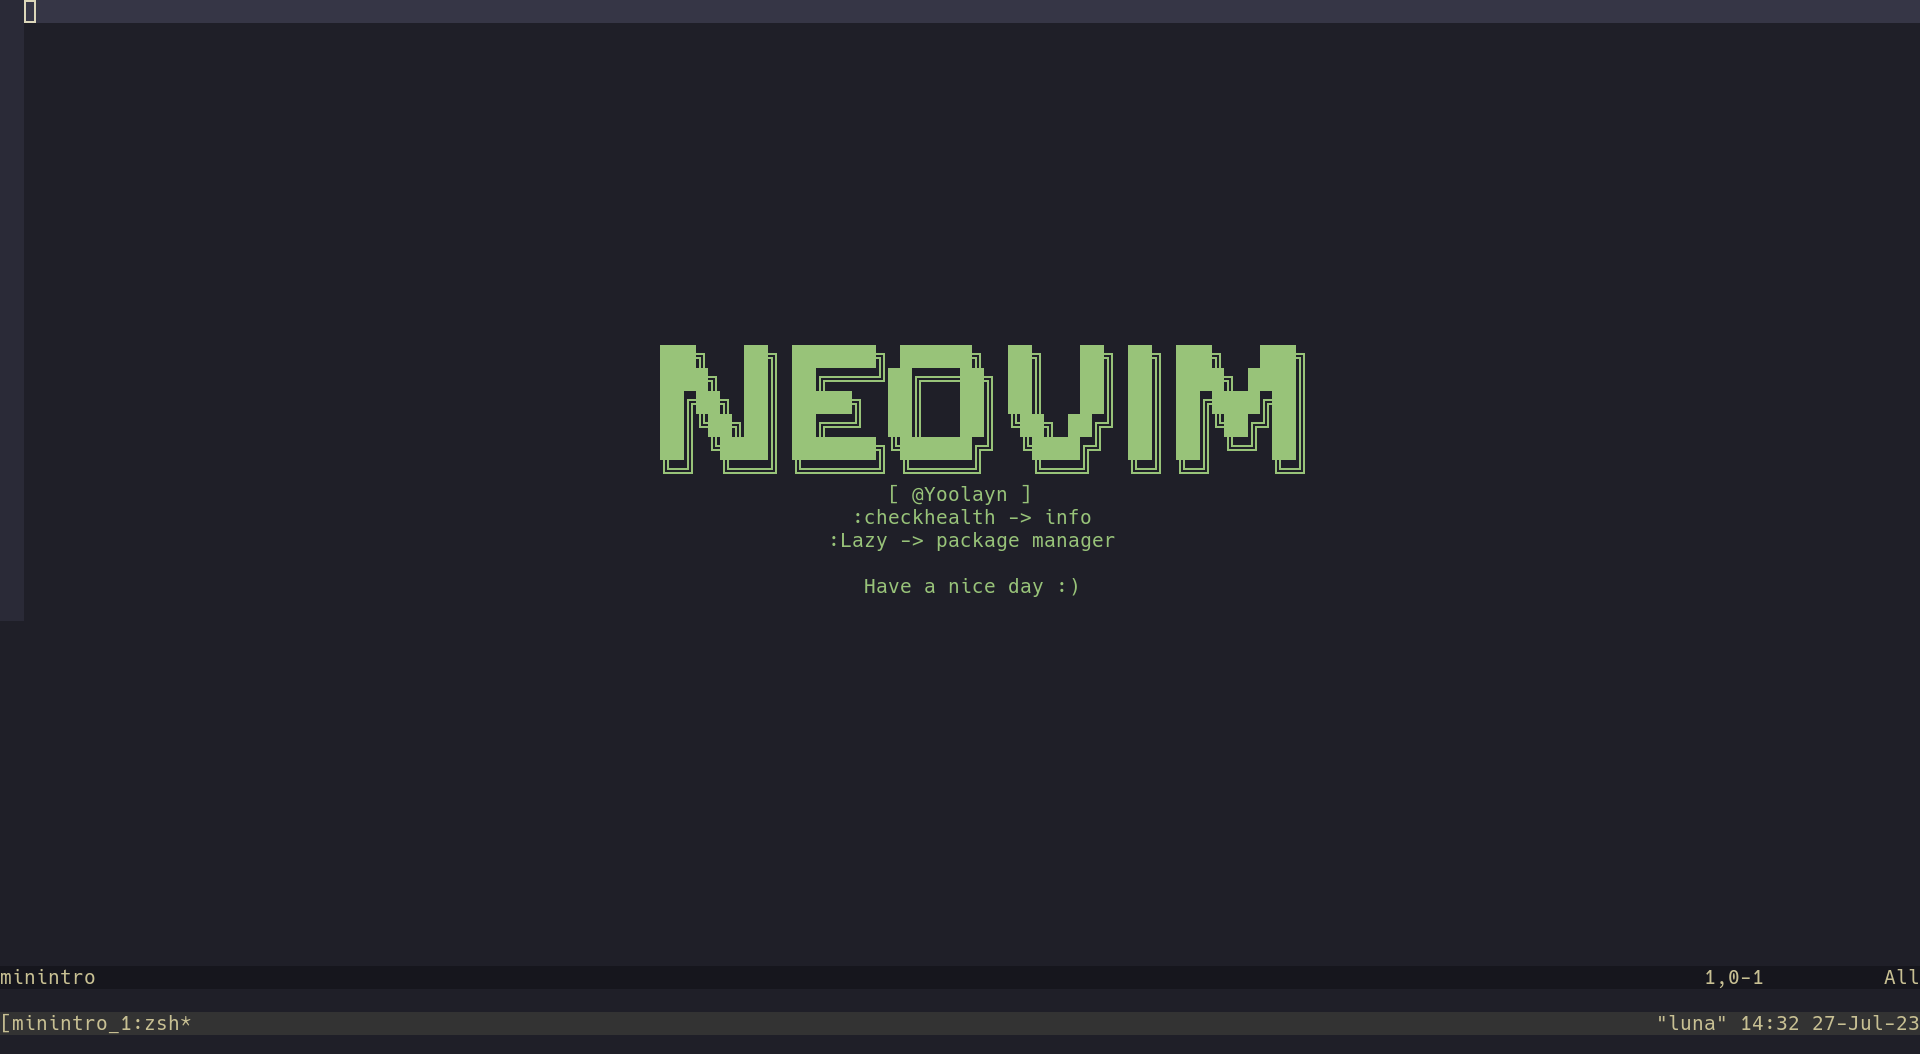
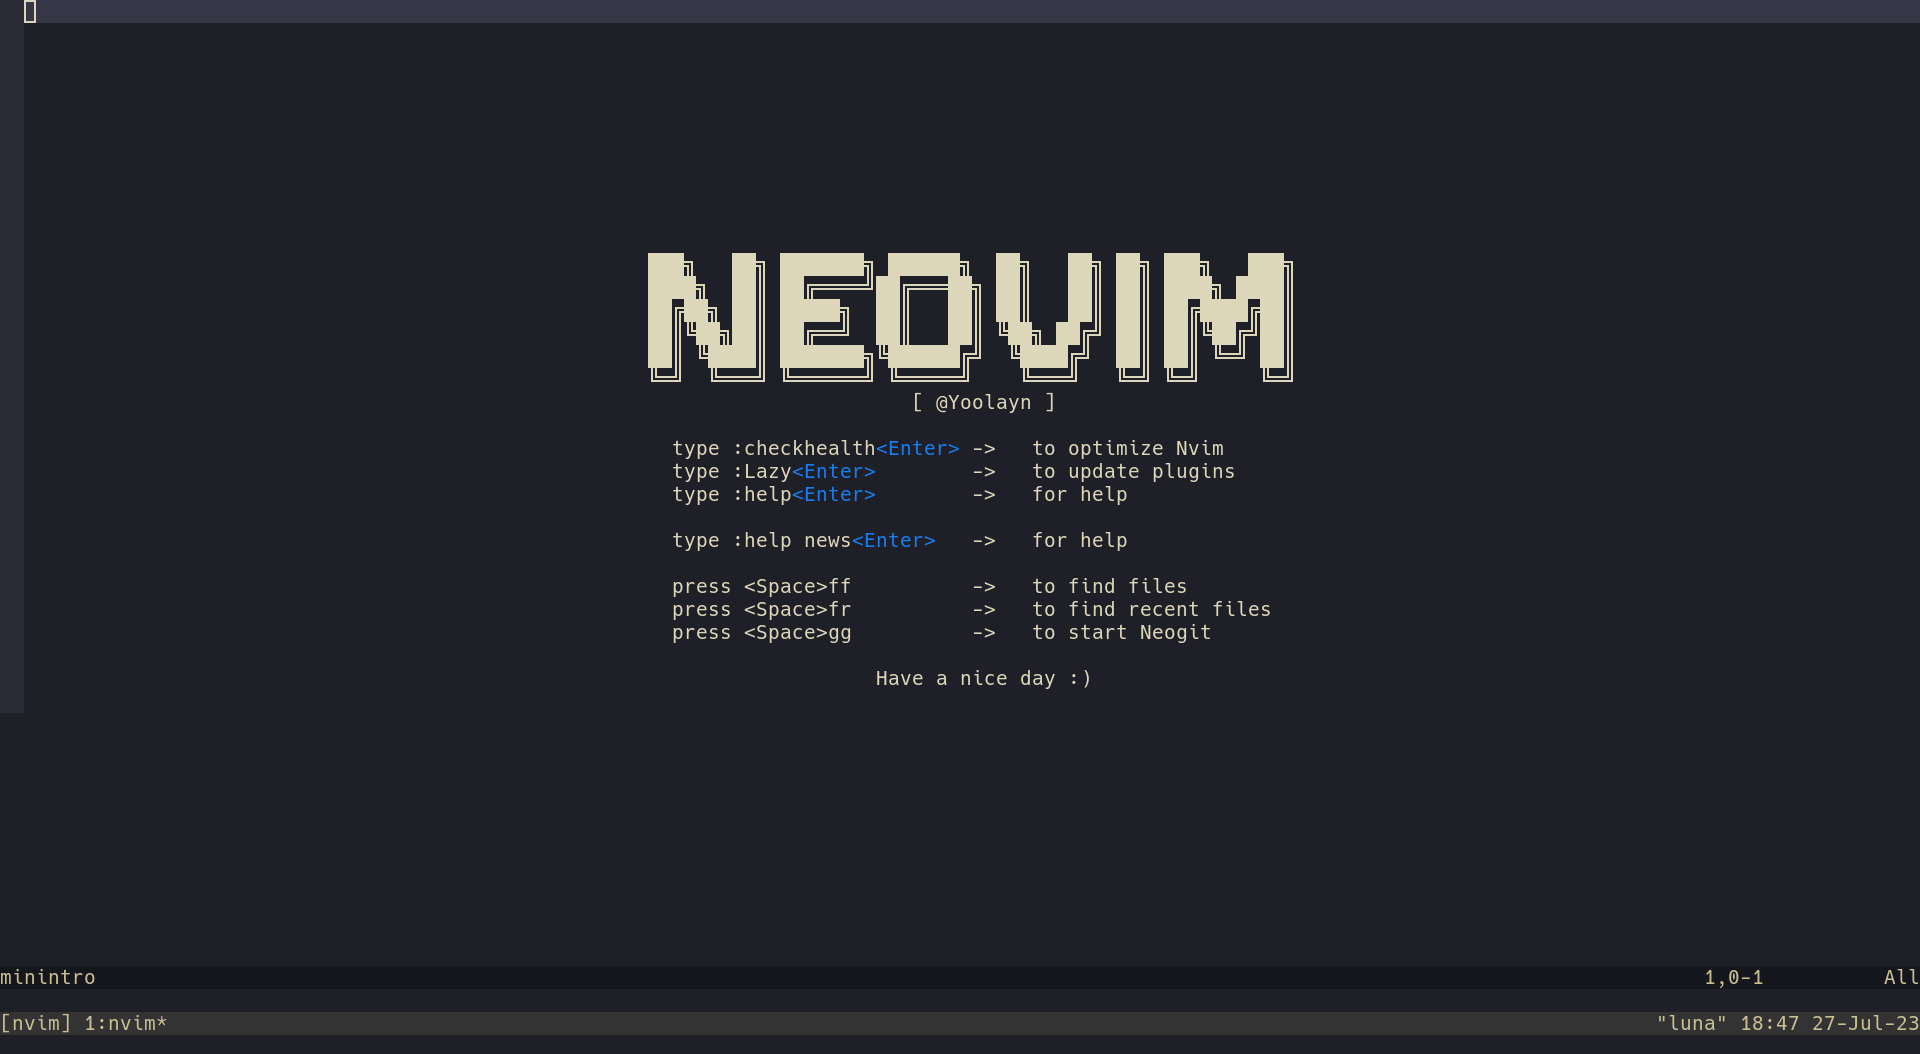
Update README.md
Update README.md

Changed region(s): [[0.3125, 0.2429, 0.6875, 0.5161], [0.3438, 0.5465, 0.625, 0.6072], [0.4688, 0.6376, 0.5625, 0.6679]]

diff --git a/README.md b/README.md
@@ -9,7 +9,7 @@ Neovim intro screen can be extremely buggy and forced to close automatically by 
 `minintro.nvim` hijects `no-name` and `directory` buffer and draws a simple intro logo.
 I tried to emulate the function of the original Intro as much as I could. If
 you have any improvements feel free to make a pull request.
-also thanks to the [original author](https://github.com/eoh-bse/minintro.nvim)
+Thanks to the [original author](https://github.com/eoh-bse/minintro.nvim)
 for making most of the plugin.
 
 ## Screenshot
@@ -34,8 +34,10 @@ use {
 ```
 
 ## Configuration
-You can customize the intro logo(adding your own will overwrite the default one)
-along with the ability to set the color and starting a scratch buffer instead.
+You can customize the intro logo(adding your own will overwrite the default one).
+It is possible to change it's color, make a scratch buffer appear at the start
+instead of a regular one and you can set custom highlights using matched to
+highlight parts of the logo.
 Please keep all the lines in the intro option the same length, as it may cause unexpected results.
 
 minintro comes with these defaults:
@@ -54,6 +56,9 @@ minintro comes with these defaults:
         },
         color = "#98c379",
         scratch = false,
+        highlights = function()
+            return false
+        end,
     }
     lazy = false
 }
@@ -74,6 +79,9 @@ use {
         },
         color = "#98c379",
         scratch = false,
+        highlights = function()
+            return false
+        end,
     }) end
 }
 ```
@@ -85,19 +93,34 @@ this is my configuration from the screenshot, using lazy.nvim
         "Yoolayn/minintro.nvim",
         config = {
             intro = {
-                " ███╗   ██╗ ███████╗ ██████╗  ██╗   ██╗ ██╗ ███╗   ███╗",
-                " ████╗  ██║ ██╔════╝██╔═══██╗ ██║   ██║ ██║ ████╗ ████║",
-                " ██╔██╗ ██║ █████╗  ██║   ██║ ██║   ██║ ██║ ██╔████╔██║",
-                " ██║╚██╗██║ ██╔══╝  ██║   ██║ ╚██╗ ██╔╝ ██║ ██║╚██╔╝██║",
-                " ██║ ╚████║ ███████╗╚██████╔╝  ╚████╔╝  ██║ ██║ ╚═╝ ██║",
-                " ╚═╝  ╚═══╝ ╚══════╝ ╚═════╝    ╚═══╝   ╚═╝ ╚═╝     ╚═╝",
-                "                    [ @Yoolayn ]                       ",
-                "                 :checkhealth -> info                  ",
-                "               :Lazy -> package manager                ",
-                "                                                       ",
-                "                  Have a nice day :)                   ",
+                "███╗   ██╗ ███████╗ ██████╗  ██╗   ██╗ ██╗ ███╗   ███╗",
+                "████╗  ██║ ██╔════╝██╔═══██╗ ██║   ██║ ██║ ████╗ ████║",
+                "██╔██╗ ██║ █████╗  ██║   ██║ ██║   ██║ ██║ ██╔████╔██║",
+                "██║╚██╗██║ ██╔══╝  ██║   ██║ ╚██╗ ██╔╝ ██║ ██║╚██╔╝██║",
+                "██║ ╚████║ ███████╗╚██████╔╝  ╚████╔╝  ██║ ██║ ╚═╝ ██║",
+                "╚═╝  ╚═══╝ ╚══════╝ ╚═════╝    ╚═══╝   ╚═╝ ╚═╝     ╚═╝",
+                "                      [ @Yoolayn ]                    ",
+                "                                                      ",
+                "  type :checkhealth<Enter> ->   to optimize Nvim      ",
+                "  type :Lazy<Enter>        ->   to update plugins     ",
+                "  type :help<Enter>        ->   for help              ",
+                "                                                      ",
+                "  type :help news<Enter>   ->   for help              ",
+                "                                                      ",
+                "  press <Space>ff          ->   to find files         ",
+                "  press <Space>fr          ->   to find recent files  ",
+                "  press <Space>gg          ->   to start Neogit       ",
+                "                                                      ",
+                "                   Have a nice day :)                 ",
             },
+            color = "#f7f3f2",
             scratch = true,
+            highlights = function()
+                local ns = vim.api.nvim_create_namespace("EnterMatch")
+                vim.api.nvim_set_hl(ns, "EnterMatch", { fg = "#187df0" })
+                vim.api.nvim_set_hl_ns(ns)
+                vim.fn.matchadd("EnterMatch", "<Enter>")
+            end,
         },
     },
 ```
